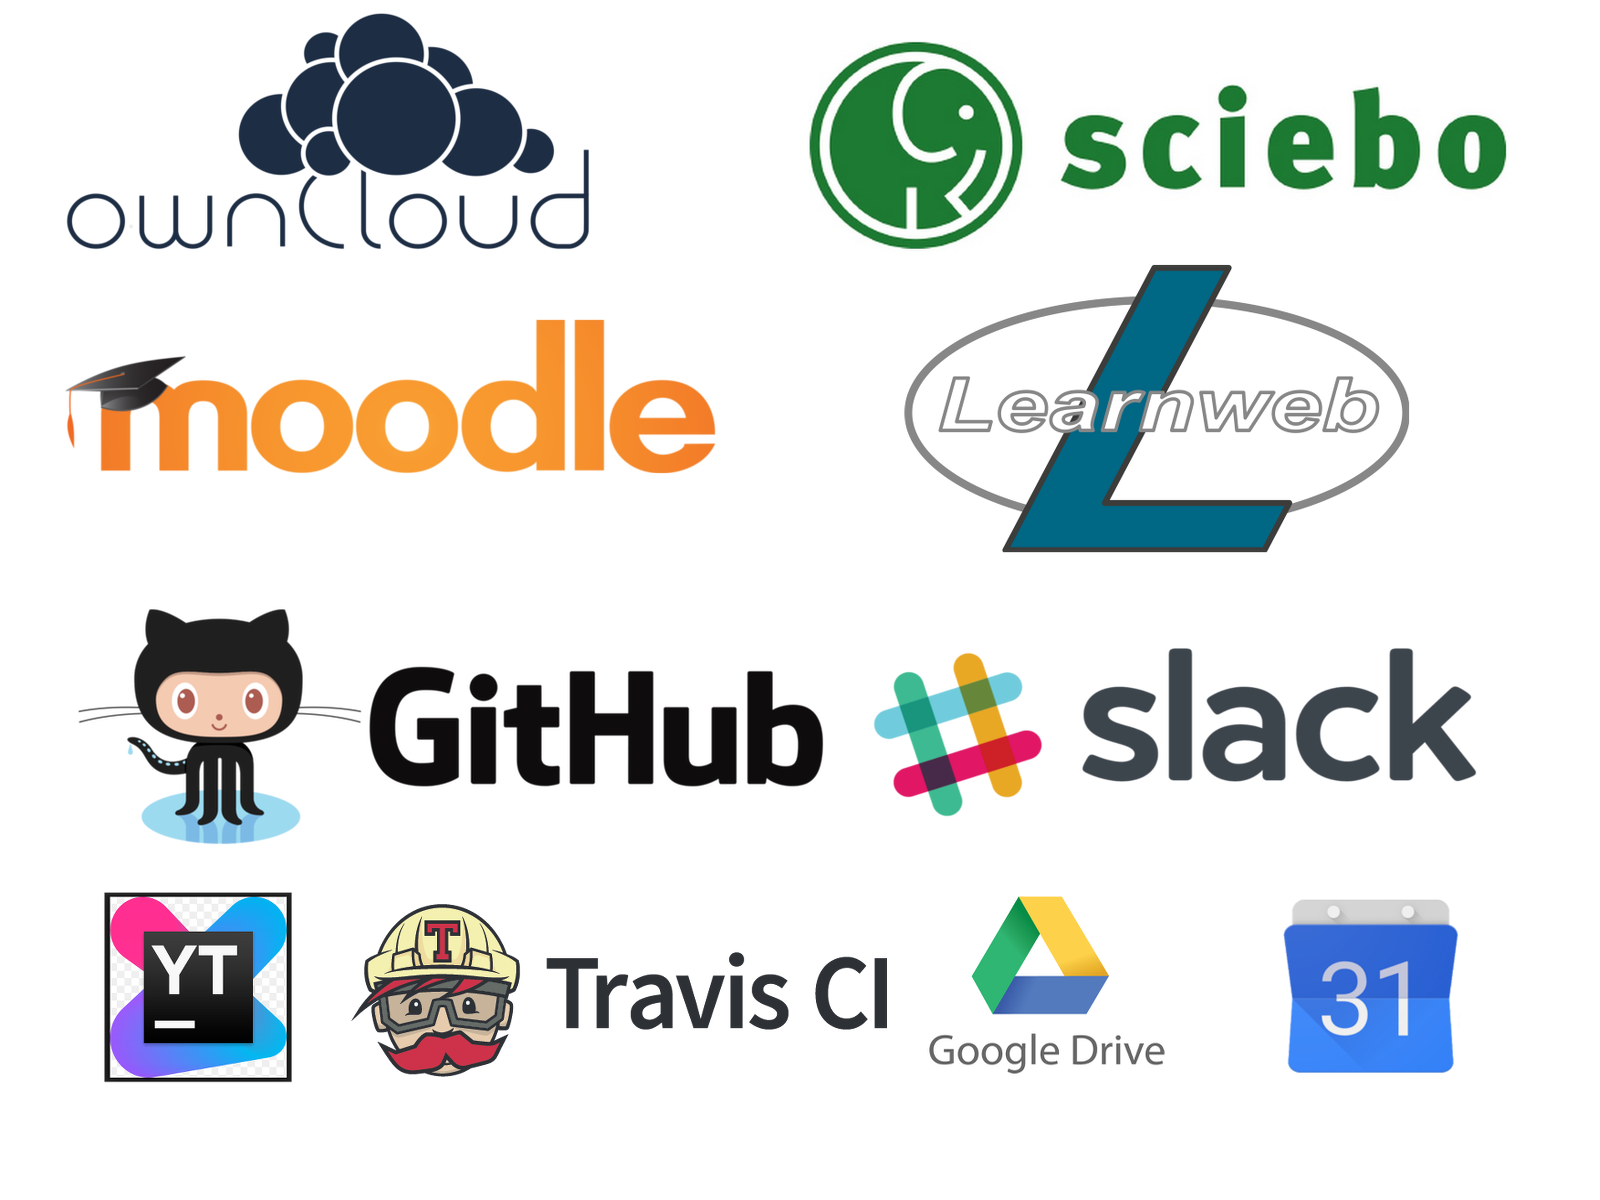
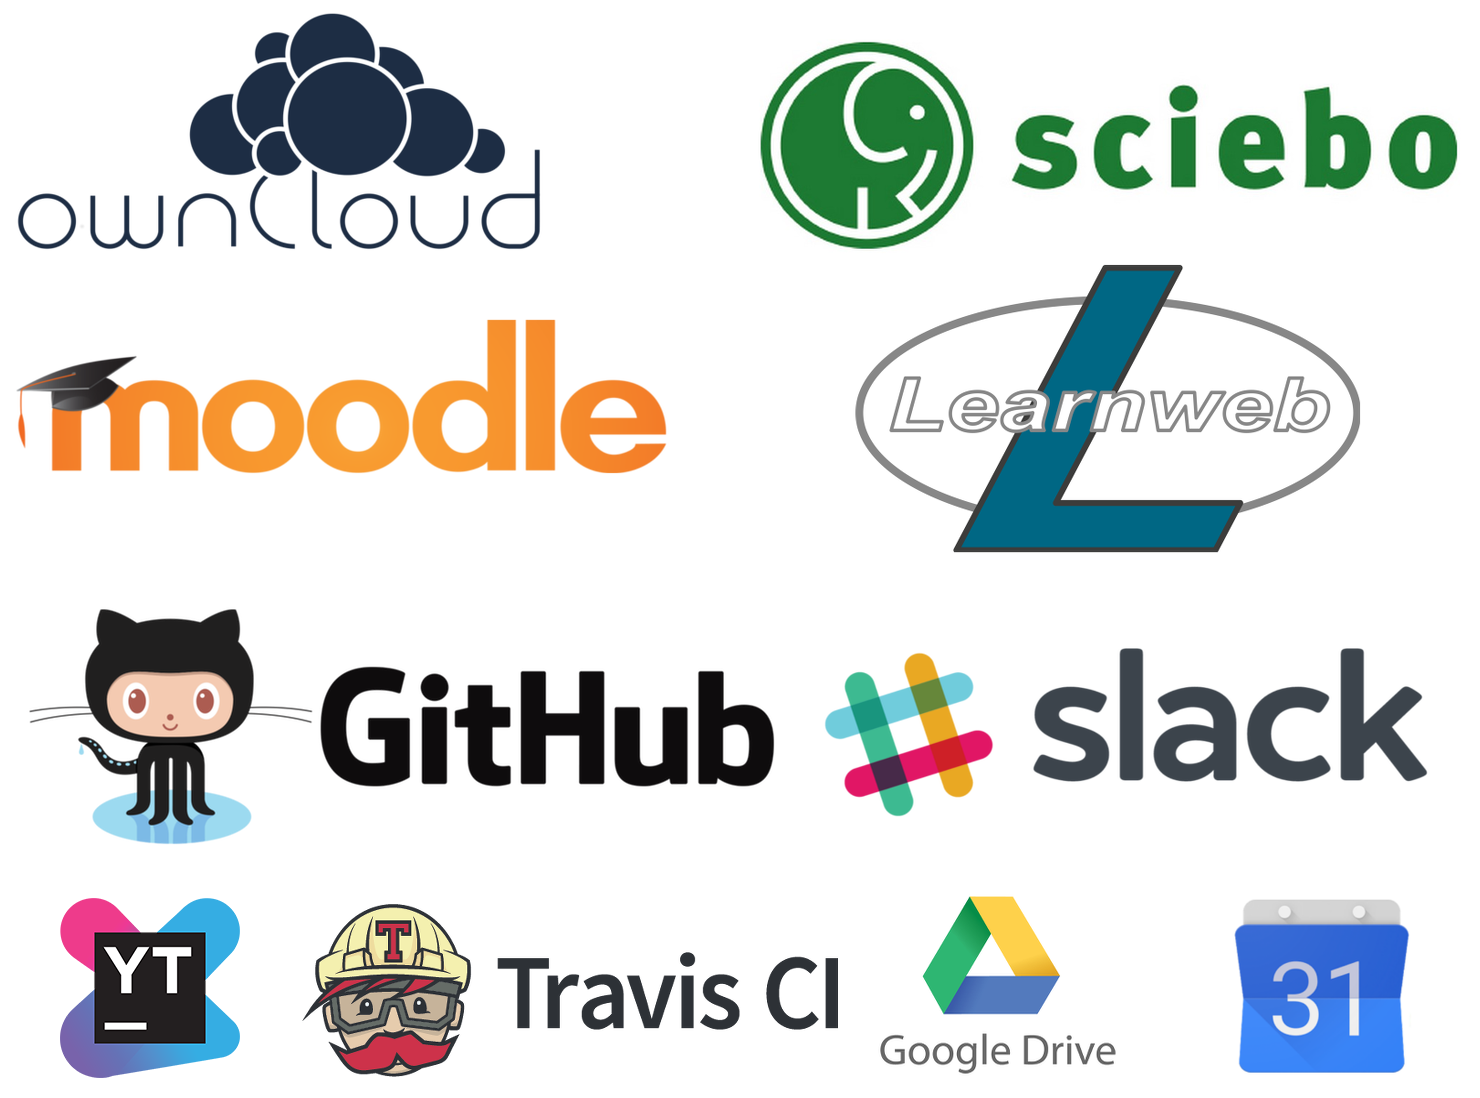
Update tools.png

diff --git a/slides/05-projektstart.md b/slides/05-projektstart.md
@@ -673,8 +673,8 @@
 
 # Unsere Tools
 
-<div>
-	<img alt="FilePicker" align="center" max-width="80%" src="images/tools.png">
+<div align="center">
+	<img alt="Tools" width="60%" src="images/tools.png">
 </div>
 
 ---
